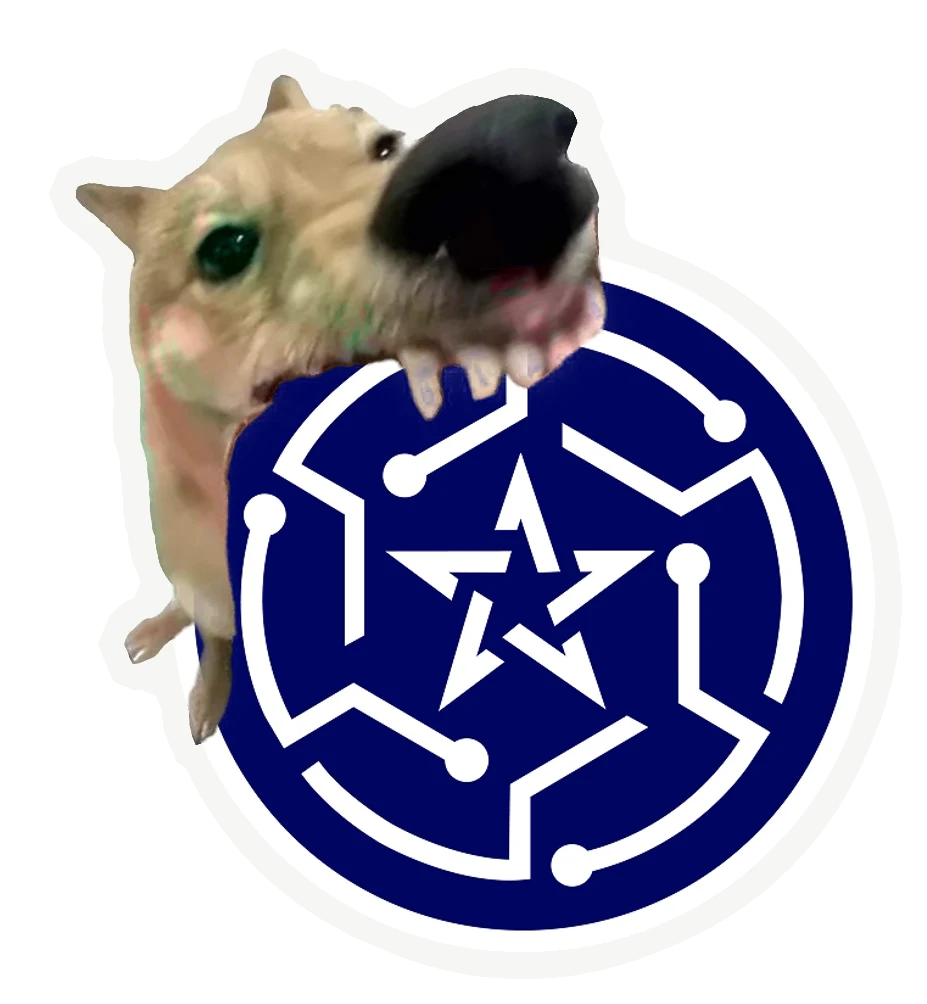
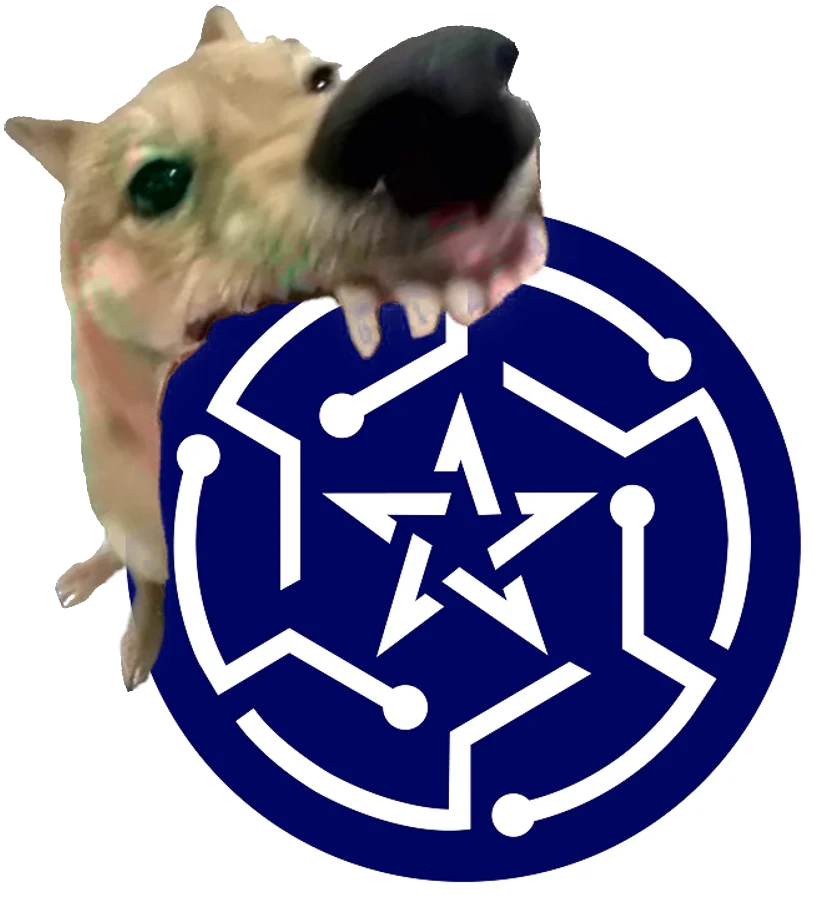
fix(landing): drop the white die-cut border around stickers
Stickers now use the artwork's own silhouette. The build script only
drops the semi-transparent shadow and trims (threshold before trim so
the seal stays centered), and the logo sticker loses its white ring;
its glitter disk grows to fill the space.

diff --git a/src/components/landing/sticker/assets.ts b/src/components/landing/sticker/assets.ts
@@ -9,7 +9,7 @@
  * - `outline`: soyma için kenar noktaları (dünya biriminde).
  *
  * Kulüp logosu `/logo/mark.svg`'den çizilir. Diğerleri
- * `scripts/build-stickers.mjs`'in beyaz kenar eklediği görsellerdir; onlarda
+ * `scripts/build-stickers.mjs`'in kırpıp boyutladığı görsellerdir; onlarda
  * lacivert logo alanları sim + holo, geri kalanı ince bir film parlaklığı
  * alır.
  */
@@ -33,7 +33,6 @@ export type StickerAsset = {
   dispose(): void;
 };
 
-const PAPER = '#f6f6f3';
 const GRID = 96; // kenar/doluluk ızgarasının uzun kenardaki hücre sayısı
 
 function loadImage(src: string) {
@@ -91,9 +90,8 @@ function texture(c: HTMLCanvasElement) {
 
 function drawLogo(logo: HTMLImageElement) {
   const TEX = 1024;
-  const R_CUT = 500; // die-cut kenarı (beyaz vinil)
-  const R_DISK = 452; // simli lacivert zemin
-  const LOGO = 820; // logo kutusunun kenarı
+  const R_DISK = 500; // simli lacivert zemin (sticker'ın kendisi)
+  const LOGO = 900; // logo kutusunun kenarı
 
   const tinted = (color: string) => {
     const c = canvas(TEX, TEX);
@@ -113,8 +111,6 @@ function drawLogo(logo: HTMLImageElement) {
 
   const map = canvas(TEX, TEX);
   const m = ctx2d(map);
-  m.fillStyle = PAPER;
-  circle(m, R_CUT);
   const g = m.createRadialGradient(
     TEX * 0.4,
     TEX * 0.35,
@@ -188,7 +184,7 @@ function drawImageSticker(img: HTMLImageElement) {
       fxData[o + 1] = 70;
       fxData[o + 2] = 255;
     } else if (!(min > 236 && Math.max(r, g, b) - min < 10)) {
-      // Baskı (kenardaki beyaz vinil hariç): hafif film parlaklığı
+      // Baskı (düz beyaz alanlar hariç): hafif film parlaklığı
       fxData[o] = 26;
     }
   }
